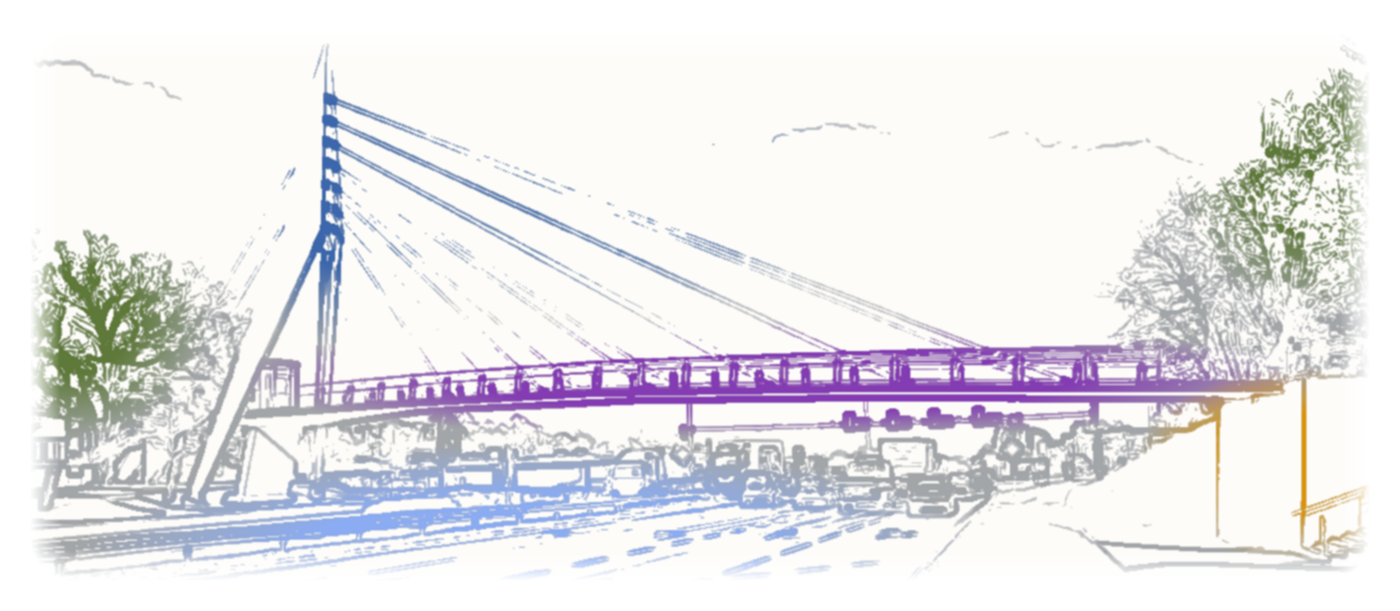
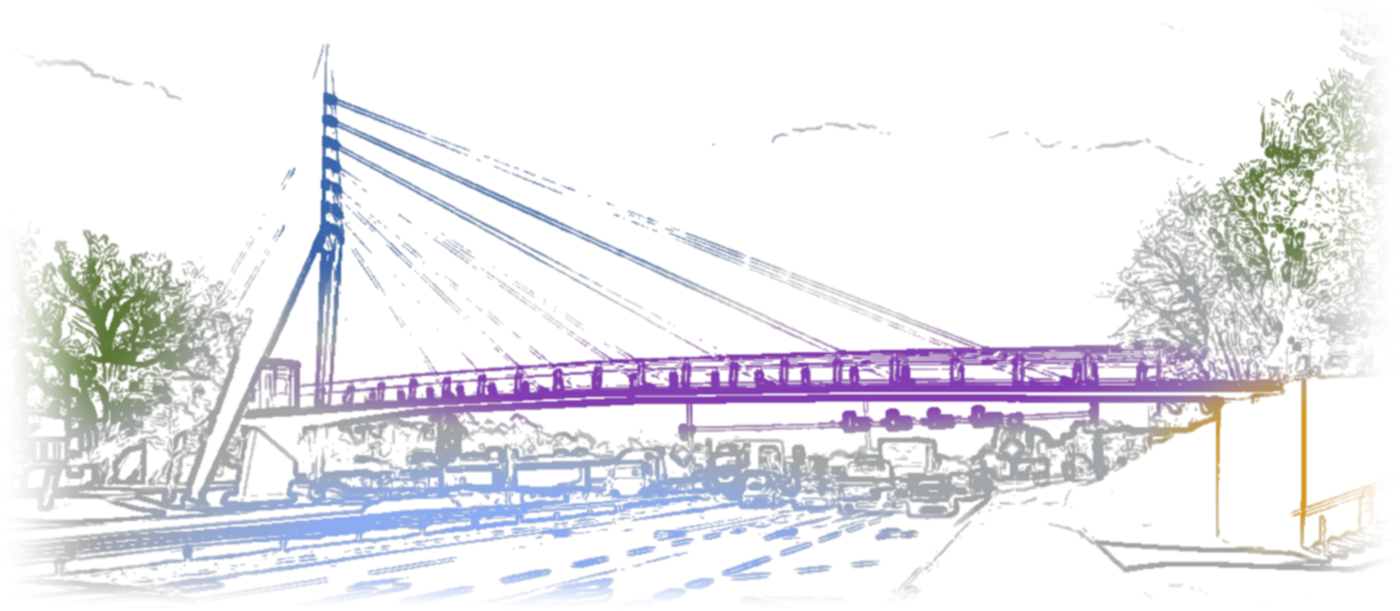
Hero: mniejszy naglowek, justowanie, grafika wyzej z przezroczystym tlem i miekkimi krawedziami

diff --git a/index.html b/index.html
@@ -60,7 +60,8 @@
       #f3efe7;
     border-bottom:1px solid var(--line);
   }
-  .hero .wrap{padding:90px 24px 80px;display:grid;grid-template-columns:1.05fr .95fr;gap:48px;align-items:center}
+  .hero .wrap{padding:90px 24px 80px;display:grid;grid-template-columns:1fr 1fr;gap:44px;align-items:start}
+  .hero-art{margin-top:10px}
   .hero-art img{width:100%;height:auto;display:block}
   .kicker{
     font-size:.8rem;letter-spacing:.34em;text-transform:uppercase;color:var(--muted);font-weight:700;
@@ -69,12 +70,12 @@
   .kicker b{color:var(--purple)} .kicker i{font-style:normal;color:var(--blue)}
   .kicker u{text-decoration:none;color:var(--olive)} .kicker s{text-decoration:none;color:var(--orange)}
   h1{
-    font-weight:900;font-size:clamp(2.2rem,5.4vw,3.9rem);line-height:1.08;letter-spacing:-.01em;max-width:820px;
+    font-weight:900;font-size:clamp(1.9rem,3.4vw,2.85rem);line-height:1.12;letter-spacing:-.01em;max-width:820px;
   }
   h1 .accent{
     background:linear-gradient(transparent 68%,rgba(239,150,41,.38) 68%);
   }
-  .hero p.lead{margin:26px 0 40px;font-size:1.13rem;color:var(--muted);max-width:660px;font-weight:300}
+  .hero p.lead{margin:26px 0 40px;font-size:1.13rem;color:var(--muted);max-width:660px;font-weight:300;text-align:justify}
   .cta{display:flex;gap:16px;flex-wrap:wrap}
   .btn{
     display:inline-block;padding:14px 30px;font-weight:700;font-size:.86rem;letter-spacing:.1em;text-transform:uppercase;
